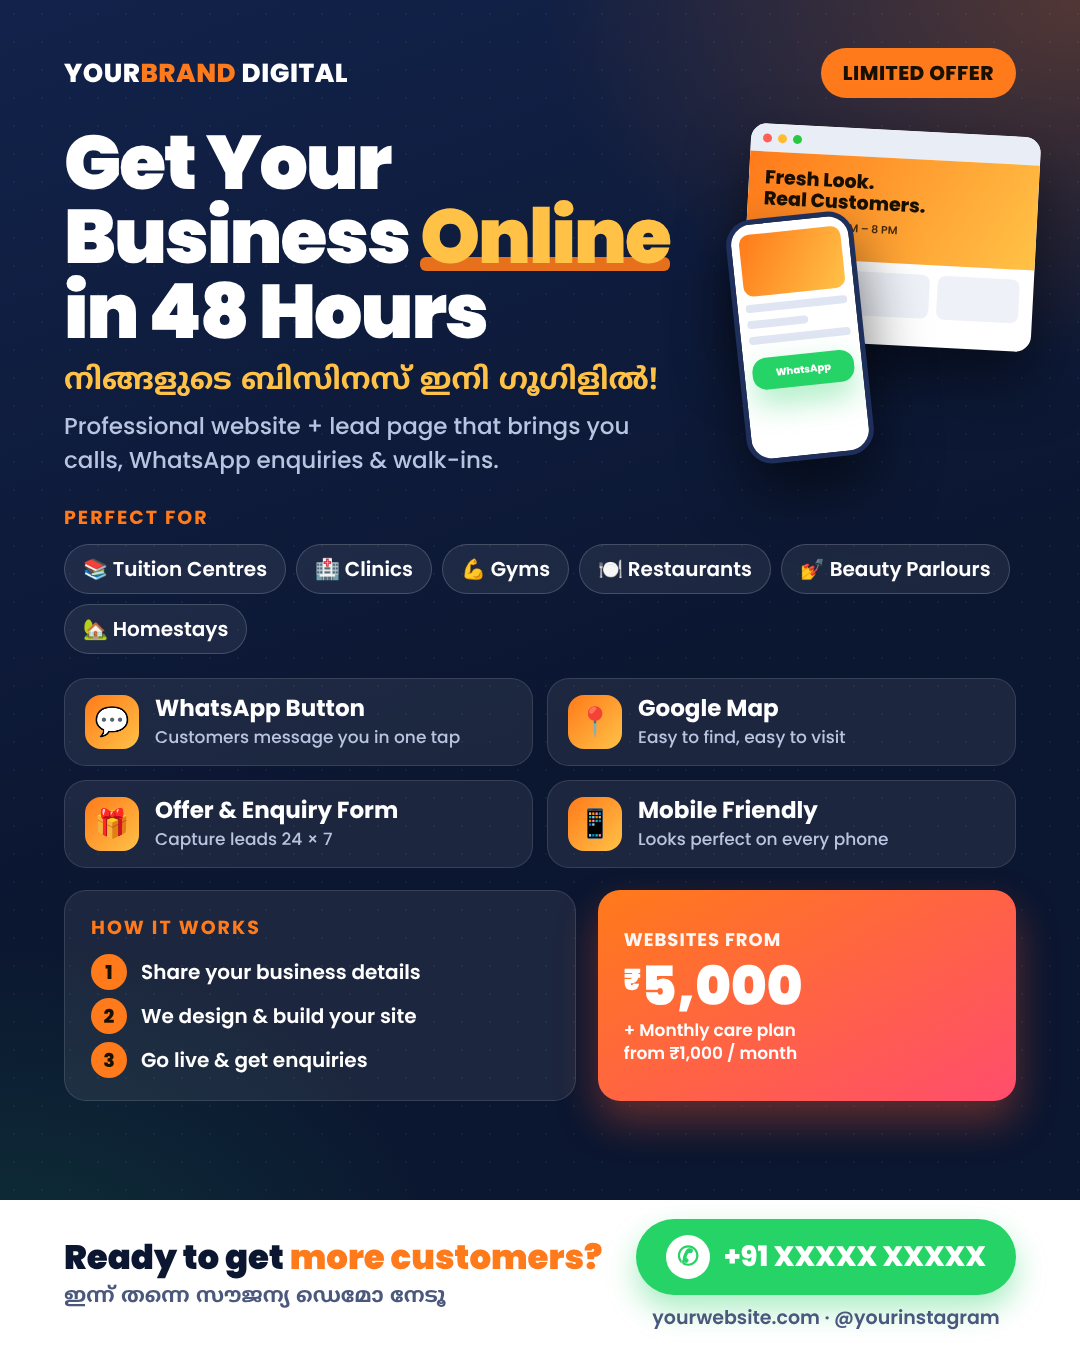
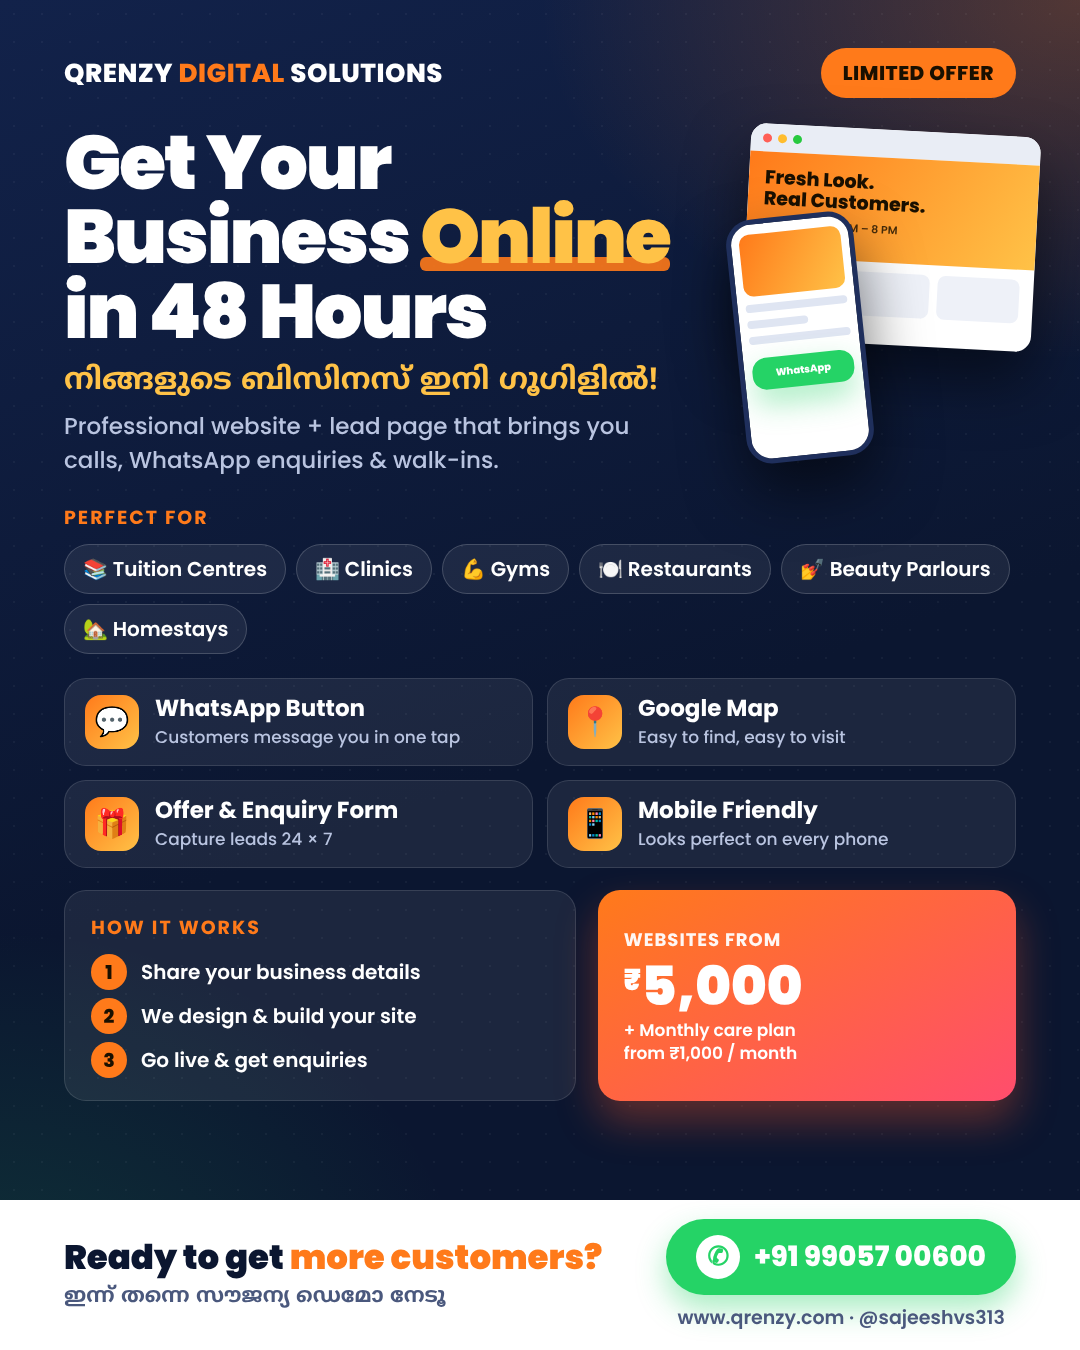
Update poster with Qrenzy Digital Solutions contact details
Claude-Session: https://claude.ai/code/session_01Ht9yWPapt7eMStkDeuiZnS

Changed region(s): [[0.5806, 0.9022, 0.9167, 0.9956], [0.0611, 0.0311, 0.4278, 0.0622]]

diff --git a/poster/poster.html b/poster/poster.html
@@ -95,7 +95,7 @@
   <div class="dots"></div>
 
   <div class="z top">
-    <div class="brand">YOUR<span>BRAND</span> DIGITAL</div>
+    <div class="brand">QRENZY <span>DIGITAL</span> SOLUTIONS</div>
     <div class="tag">LIMITED OFFER</div>
   </div>
 
@@ -149,8 +149,8 @@
       <div class="ml2">ഇന്ന് തന്നെ സൗജന്യ ഡെമോ നേടൂ</div>
     </div>
     <div>
-      <div class="wa"><span class="g">✆</span>+91 XXXXX XXXXX</div>
-      <div class="contact">yourwebsite.com · @yourinstagram</div>
+      <div class="wa"><span class="g">✆</span>+91 99057 00600</div>
+      <div class="contact">www.qrenzy.com · @sajeeshvs313</div>
     </div>
   </div>
 </div>
